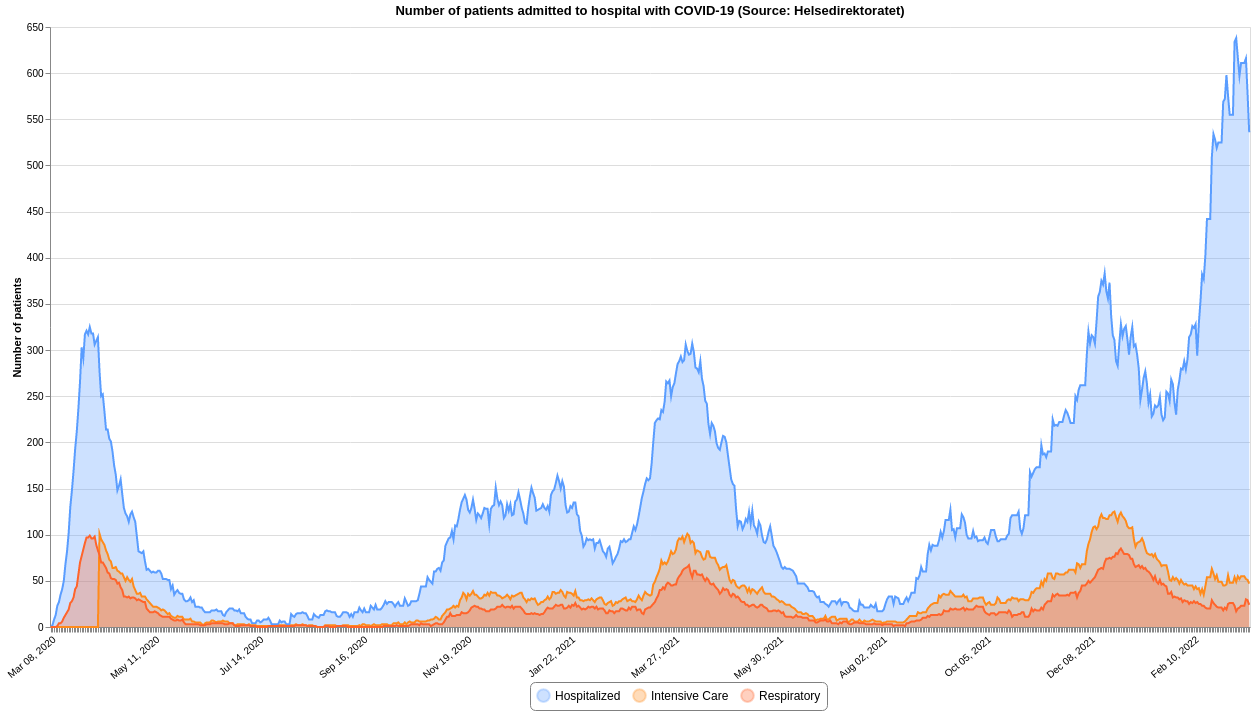
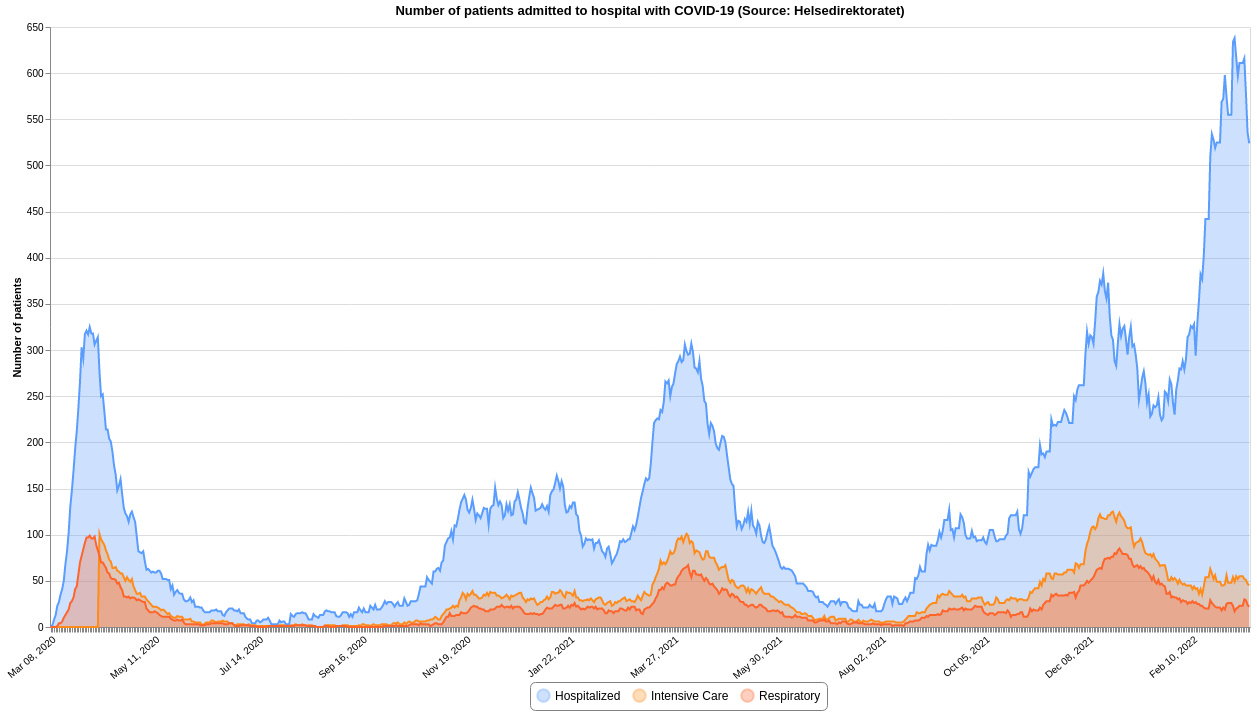
Updated 2022-03-17 12:51

diff --git a/README.md b/README.md
@@ -12,7 +12,7 @@ This repository contains datasets of daily time-series data related to COVID-19 
 | :--- | :--- | :--- | :--- | :--- |
 |[Confirmed](#confirmedcsv)|FHI / MSIS|2022-03-17 00:20:47+01:00|[<center>csv</center>](https://raw.githubusercontent.com/frefrik/covid19norge-data/main/data/confirmed.csv)|[<center>preview</center>](data/confirmed.csv)|
 |[Dead](#deadcsv)|FHI|2022-03-16 13:20:50+01:00|[<center>csv</center>](https://raw.githubusercontent.com/frefrik/covid19norge-data/main/data/dead.csv)|[<center>preview</center>](data/dead.csv)|
-|[Hospitalized](#hospitalizedcsv)|Helsedirektoratet|2022-03-16 12:50:42+01:00|[<center>csv</center>](https://raw.githubusercontent.com/frefrik/covid19norge-data/main/data/hospitalized.csv)|[<center>preview</center>](data/hospitalized.csv)|
+|[Hospitalized](#hospitalizedcsv)|Helsedirektoratet|2022-03-17 12:50:50+01:00|[<center>csv</center>](https://raw.githubusercontent.com/frefrik/covid19norge-data/main/data/hospitalized.csv)|[<center>preview</center>](data/hospitalized.csv)|
 |[Tested](#testedcsv)|FHI|2022-03-16 13:00:48+01:00|[<center>csv</center>](https://raw.githubusercontent.com/frefrik/covid19norge-data/main/data/tested.csv)|[<center>preview</center>](data/tested.csv)|
 |[Tested Lab](#tested_labcsv)|FHI|2022-03-16 13:20:45+01:00|[<center>csv</center>](https://raw.githubusercontent.com/frefrik/covid19norge-data/main/data/tested_lab.csv)|[<center>preview</center>](data/tested_lab.csv)|
 |[Transport](#transportcsv)|FHI|2021-09-24 23:10:46+02:00|[<center>csv</center>](https://raw.githubusercontent.com/frefrik/covid19norge-data/main/data/transport.csv)|[<center>preview</center>](data/transport.csv)|
